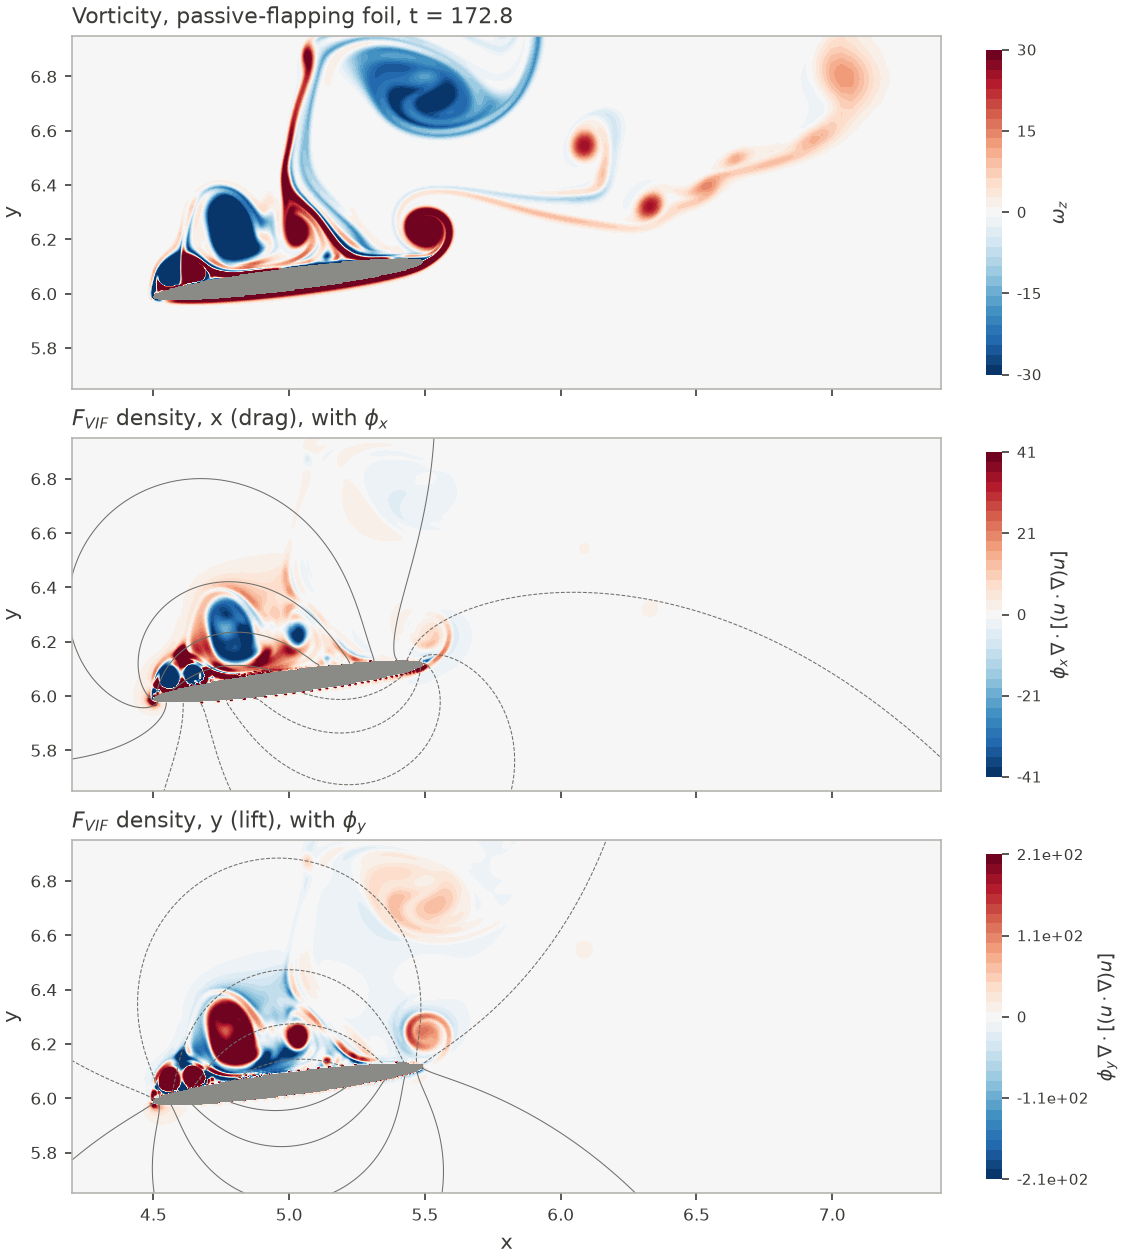
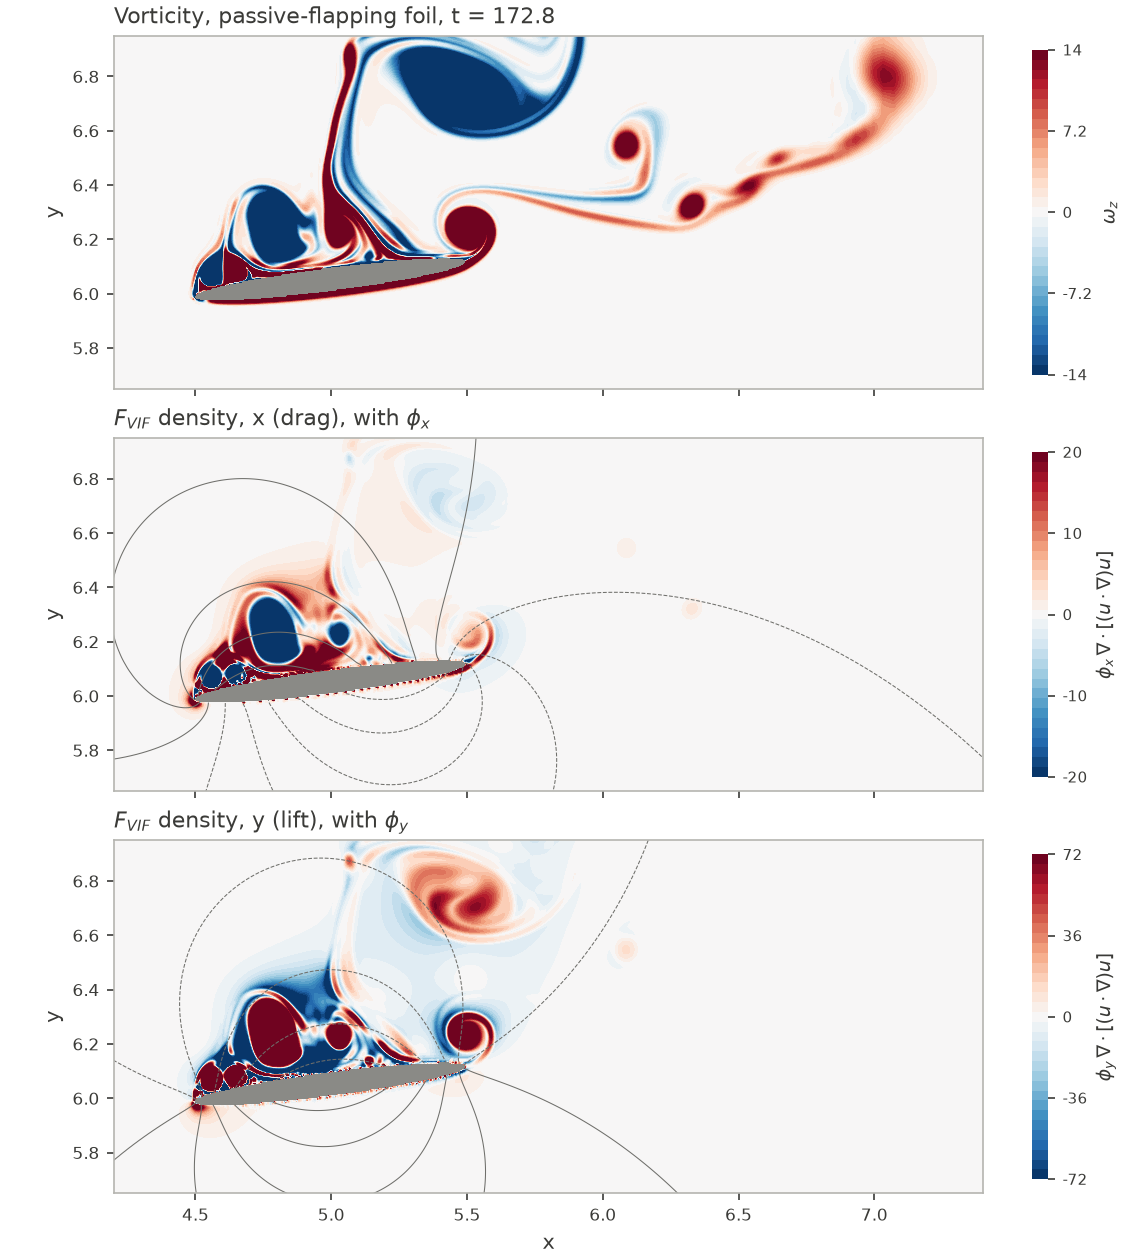
Plots: colour limits at the 50th percentile of the non-negligible magnitudes
Regenerated both figures.

diff --git a/examples/plot_fields.py b/examples/plot_fields.py
@@ -23,7 +23,7 @@ with open(path, "rb") as f:
 ink = "#3b3b38"
 
 
-def colour_limit(values, floor=0.02, pct=80):
+def colour_limit(values, floor=0.02, pct=50):
     """Symmetric colour limit set by the flow structures rather than by a few
     near-wall peaks: the pct-th percentile of |value| over the cells whose
     magnitude exceeds `floor` times the 99.9th percentile. Values beyond the
